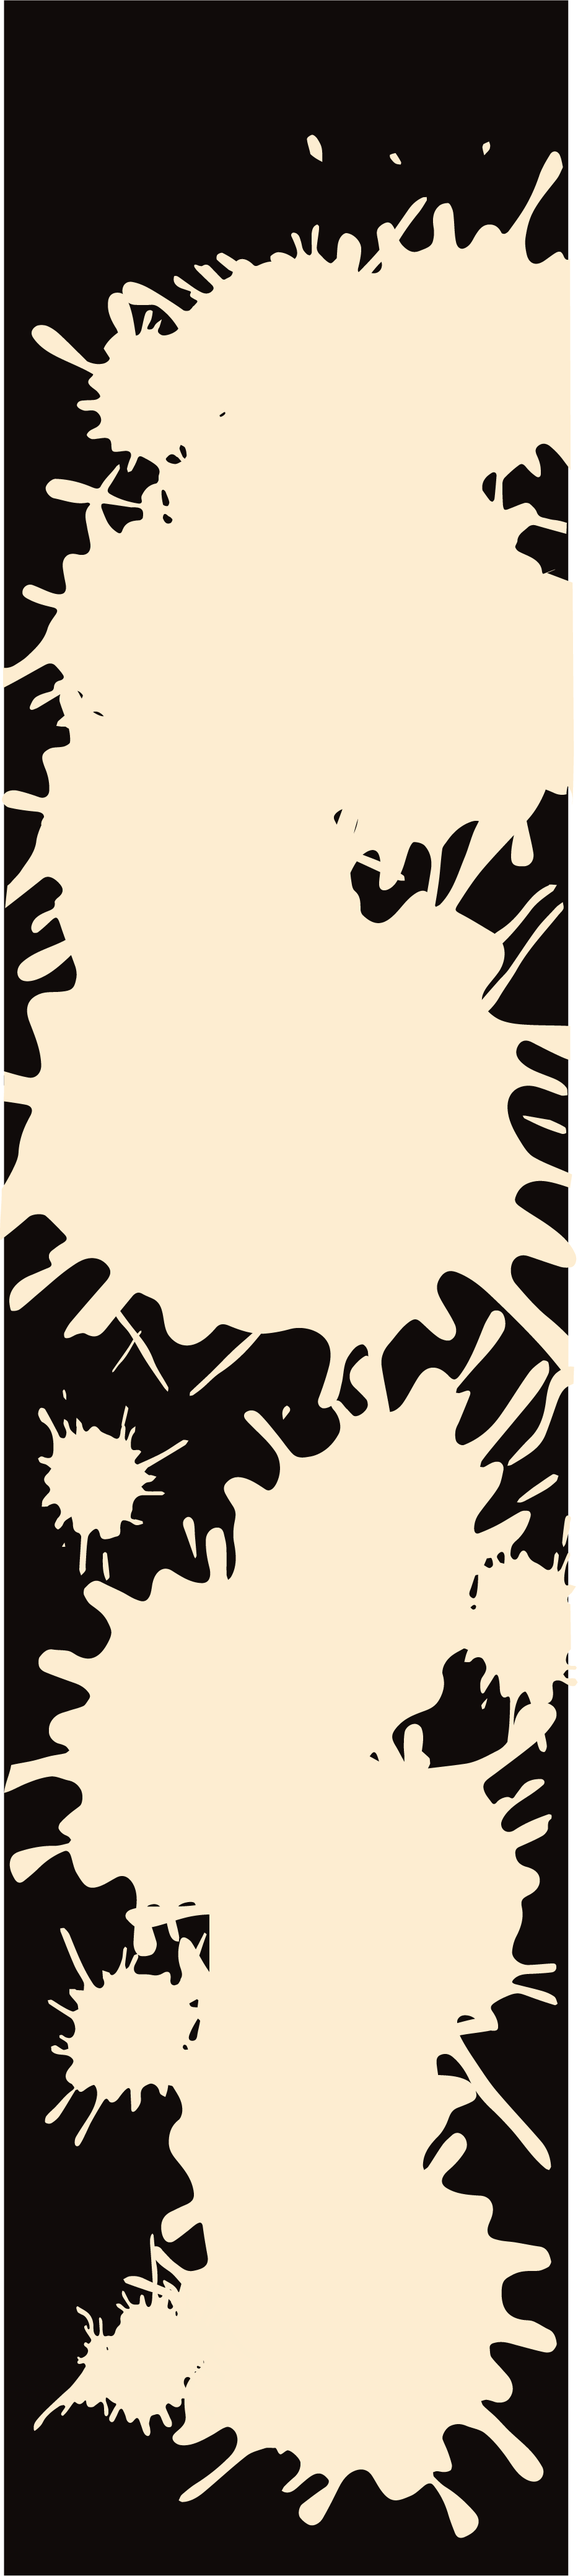
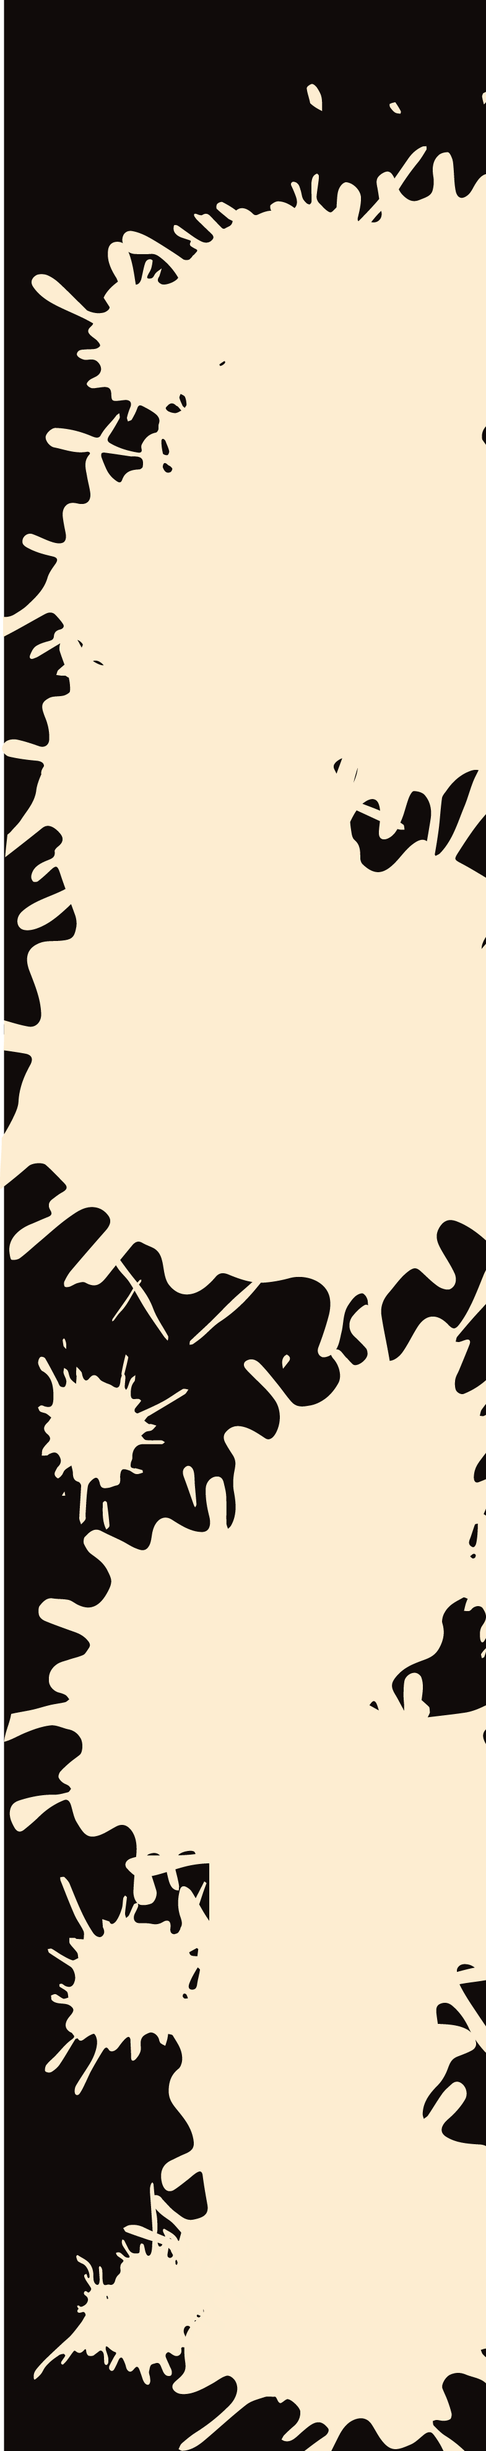
changes

Changed region(s): [[0.0, 0.0, 1.0, 1.0], [0.0, 0.9954, 0.0306, 1.0]]

diff --git a/styles.css b/styles.css
@@ -1,8 +1,3 @@
-header {
-    background-color: #ebe1d2;
-    width: auto;
-}
-
 .navbar {
     min-height: 60px;
     display: flex;
@@ -39,16 +34,22 @@ header {
     transition: all 0.3s ease-in-out;
     background-color: #362029;
 }
-@media only screen and (max-width: 667px) {
+
+@media only screen and (max-width: 380px) {
     * {
         padding: 0;
         margin: 0;
         box-sizing: border-box;
     }
 
-    body {
+    header {
+        background-color: #ebe1d2;
+        width: 380px;
+    }
+
+    .indexbody {
         background-image: url(pictures/backgroundfirst1.png);
-        background-position: 10% 90%;
+        background-position: 14% 86%;
         background-repeat: no-repeat;
         background-size: cover;
         margin: 0;
@@ -98,6 +99,10 @@ header {
         transition: 0.3s;
     }
 
+    .index {
+        width: auto;
+    }
+
     .nav-item {
         margin: 16px 0;
     }
@@ -136,8 +141,9 @@ header {
             2px 2px 0 black;
         font-family: 'Oxygen', sans-serif;
     }
+
     .afval {
-        margin: 3em 1.3em 0 1.5em;
+        margin: 1em 1.3em 0 1.5em;
         color: #98607e;
         text-shadow:
             -1px -1px 0 rgb(0, 0, 0),
@@ -151,33 +157,32 @@ header {
     .zakjes {
         display: inline-block;
         position: relative;
-        top: -190px;
+        top: -250px;
         right: -135px;
         height: 250px;
     }
 
-    h3 {
-        margin: 7.5em 5.7em 0 3.5em;
-        padding-right: 3.2em;
+    .kunstendecor {
+        margin: 6.5em 0 2em 3em;
         display: block;
-        width: 350px;
+        width: 300px;
         text-align: right;
         font-size: 1.3em;
         font-family: 'Bitter', serif;
 
     }
 
-    p:nth-of-type(1) {
+    .index p:nth-of-type(1) {
         font-family: 'Libre Baskerville', serif;
         font-size: 0.9em;
         margin-left: 7em;
-        margin-top: 5em;
+        margin-top: 3em;
         padding-left: 8em;
         padding-right: 1em;
         width: 260px;
     }
 
-    p:nth-of-type(2) {
+    .index p:nth-of-type(2) {
         font-family: 'Libre Baskerville', serif;
         font-size: 0.9em;
         margin-left: 7em;
@@ -186,71 +191,75 @@ header {
         width: 270px;
     }
 
-    p:nth-of-type(3) {
+    .waarom {
         font-family: 'Libre Baskerville', serif;
         font-size: 1em;
         margin-left: 3.6em;
         margin-top: 6.7em;
-        padding-right: 1em;
+        padding-right: 2em;
         width: 100px;
         display: inline-block;
     }
 
-    p:nth-of-type(4) {
+    .index p:nth-of-type(4) {
         font-family: 'Libre Baskerville', serif;
         font-size: 1em;
         margin-left: 4em;
         margin-top: 0;
+        margin-right: 1em;
         padding-right: 1em;
         width: 300px;
         display: inline-block;
         position: relative;
-        top: -90px;
+        top: -150px;
         text-align: center;
     }
 
     .cdcollage {
         display: inline-block;
         position: relative;
-        top: -40px;
+        top: -60px;
         right: -20px;
         height: 320px;
 
     }
 
-    p:nth-of-type(5) {
-        font-family: 'Libre Baskerville', sans-serif;
+    .watis {
+        display: block;
+        width: 350px;
+        text-align: right;
+        padding: 0;
+        margin: 0;
+        margin-left: 2em;
+        position: relative;
+        top: -180px;
+        text-align: center;
         font-size: 1.5em;
+
+    }
+
+    .index p:nth-of-type(5) {
+        font-family: 'Acme', sans-serif;
+        font-size: 1.7em;
         margin-left: 4em;
         padding-right: 4em;
         display: inline-block;
         position: relative;
-        top: 120px;
+        top: 150px;
         text-align: center;
         font-weight: 800;
         width: 350px;
-        
+
     }
 
     .doppen {
-        max-height: 450px;
+        max-height: 500px;
         position: relative;
-        top: 150px;
-        right:  -15px;
+        top: 170px;
+        right: -15px;
     }
-    p:nth-of-type(6) {
-        font-family: 'Libre Baskerville', serif;
-        font-size: 0.9em;
-        margin-left: 4em;
-        padding-right: 1em;
-        display: inline-block;
-        position: relative;
-        top: -270px;
-        right: -180px;
-        text-align: center;
-        width: 130px;
-    }
-    p:nth-of-type(7) {
+
+    .index p:nth-of-type(6) {
         font-family: 'Libre Baskerville', serif;
         font-size: 0.9em;
         margin-left: 4em;
@@ -262,6 +271,20 @@ header {
         text-align: center;
         width: 130px;
     }
+
+    .index p:nth-of-type(7) {
+        font-family: 'Libre Baskerville', serif;
+        font-size: 0.9em;
+        margin-left: 4em;
+        padding-right: 1em;
+        display: inline-block;
+        position: relative;
+        top: -340px;
+        right: -180px;
+        text-align: center;
+        width: 130px;
+    }
+
     .rave {
         position: relative;
         top: -50px;
@@ -269,10 +292,10 @@ header {
     }
 
     .bottle {
-height: 260px;
-position: relative;
-top: 100px;
-right: -100px;
+        height: 230px;
+        position: relative;
+        top: -30px;
+        right: 0px;
     }
 
     footer {

diff --git a/index.html b/index.html
@@ -12,9 +12,10 @@
 <link href="https://fonts.googleapis.com/css2?family=Libre+Baskerville&display=swap" rel="stylesheet">
 <link href="https://fonts.googleapis.com/css2?family=Libre+Baskerville&display=swap" rel="stylesheet">
 <link href="https://fonts.googleapis.com/css2?family=Bitter&display=swap" rel="stylesheet">
+<link href="https://fonts.googleapis.com/css2?family=Acme&family=Bitter&display=swap" rel="stylesheet">
 </head>
 
-<body>
+<body class="indexbody">
     <header>
         <nav class="navbar">
             <img src="pictures/logo.png" alt="Logo" class="logo1">
@@ -31,25 +32,25 @@
             </div>
         </nav>
     </header>
-    <main>
+    <main class="index">
         <h1> Reincarnation </h1>
         <h2 class="theart"> The Art of a second chance</h2>
         <h2 class="upcycli"> Upcycling art and decor </h2>
         <h2 class="afval"> Van afval naar kunst, dat geeft de aarde gunst. </h2>
-        <h3> Kunst en decor op een duurzame manier creëren </h3>
+        <h3 class="kunstendecor"> Kunst en decor op een duurzame manier creëren </h3>
         <p> In de wereld van vandaag, waar milieuvervuiling tot een van de grootste uitdagingen behoort, is iedereen
             verantwoordelijk om voor een schonere </p>
             <p> toekomst te zorgen waar de aarde geen vervuiling meer kent. Er zijn
             verschillende manieren waarop iedereen kan bijdragen aan een schonere wereld van morgen. </p>
-        <p> Waarom onze planeet vervuilen als je hem ook mooier kan maken? </p>
+        <p class="waarom"> Waarom onze planeet vervuilen als je hem ook mooier kan maken? </p>
         <img src="pictures/zakjes.png" class="zakjes" alt="Illustratie van een collage gemaakt van kleurvole zakjes">
+        <h3 class="watis"> Wat is Upcycling kunst? </h3>
         <p> Upcycling kunst is een vorm van creatieve expressie waarbij je afvalmaterialen en voorwerpen neemt en deze
             transformeert tot nieuwe en soms functionele kunstwerken. Het idee achter upcycling kunst is om een nieuw
             leven te geven aan items die anders als afval beschouwd zouden worden, wat bijdraagt aan
             milieuvriendelijkheid door het verminderen van de vraag naar nieuwe hulpbronnen en het minimaliseren van
             afval.</p>
         <img src="pictures/cdcollage.png" class="cdcollage"  alt="Illustratie">
-        <img src="pictures/bottle.png" class="bottle" alt="Illustratie">
         <p> Geef het een tweede kans!</p>
         <img src="pictures/doppen.png" class="doppen" alt="Illustratie">
         <p> Wil je iets weggooien? Give it a second thought, misschien kan je het juist verzamelen en een lijste van
@@ -57,7 +58,7 @@
         <p> Je zult versteld staan van alle verschillende, creatieve manieren die mensen hebben ontdekt om van afval
             toch iets moois en functioneels te maken.</p>
         <img src="pictures/thisisarave.png" class="rave" alt="Illustratie">
-
+        <img src="pictures/bottle.png" class="bottle" alt="Illustratie">
     </main>
 <footer>
  </footer>
